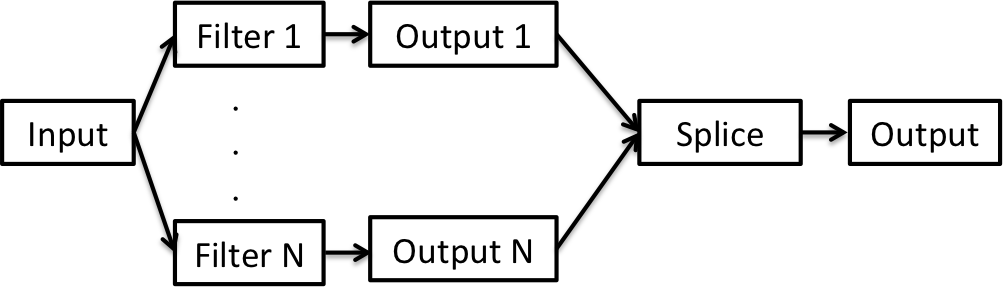
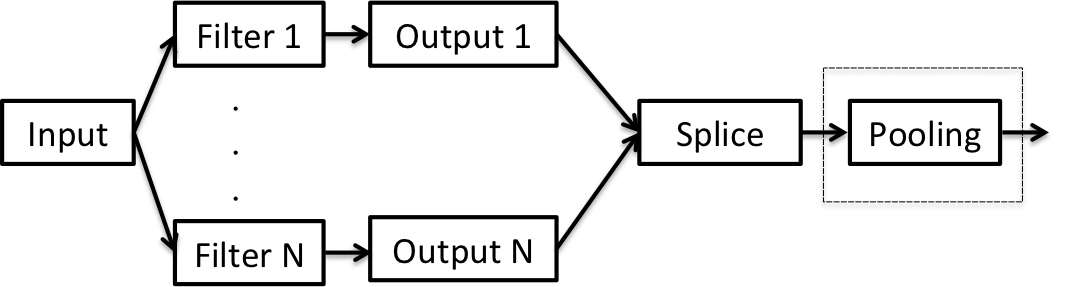
intermediate change

diff --git a/ISMIR2015template.tex b/ISMIR2015template.tex
@@ -112,7 +112,7 @@ Figure~\ref{fig:overview} gives an overview of all components and processing ste
 \begin{figure}
  \centerline{\framebox{
  \includegraphics[width=\columnwidth]{flowchart.png}}}
- \caption{The overview of our system}\footnote{change font size in this figure so that all boxes can have the same horizontal width AND that the font size matches the font size in other graphs}
+ \caption{The overview of our system}
  \label{fig:overview}
 \end{figure}
 
@@ -167,10 +167,12 @@ The ideas of splicing and convolution can be combined, as exemplified by Fig.~\r
  \caption{Splicing output of different filters}
  \label{fig:filtersplice}
 \end{figure}
-We call this kind of processing as ``splice filtering. 
+We call this kind of processing as ``spliced filters".
+
+Additionally, like CNNs we could optionally apply a maximum pooling operation on the output of spliced filters. 
  
 \subsection{Training}\label{sec:train}
-It is impractical to train DNNs directly with back propagation using gradient decent due to their deep structure. Therefore, the network is usually initialized by an unsupervised pre-training step. As our network consists of RBMs, Gibbs sampling can be used for training. The objective is to retain as much information as possible between input and output. 
+It is impractical to train DNNs directly with back propagation using gradient decent due to their deep structure and limited training samples. Therefore, the network is usually initialized by an unsupervised pre-training step. As our network consists of RBMs, Gibbs sampling can be used for training. The objective is to retain as much information as possible between input and output. 
 
 The computation between layers can be represented as:
 \begin{equation}\label{dbn}
@@ -180,7 +182,7 @@ which is identical to many traditional neural networks. Therefore, a standard ba
 
 \subsection{Architecture}\label{sec:arch}
 We investigate a deep network with $6$ layers in two different architectures. The common architecture features the same amount of neurons in every layer, in our case $1024$. The bottleneck architecture has a lower number of neurons in the middle layers, namely $256$ neurons in the middle layer, $512$ in its neighboring layers, and $1024$ neurons in the remaining layers\cite{grezl2007probabilistic}.
-A softmax output layer is stacked on top of both architectures as described by \eqnref{softmax}.\footnote{maybe move this to related work??}
+A softmax output layer is stacked on top of both architectures as described by \eqnref{softmax}.
 \begin{equation}\label{softmax}
 \softmax(Y_{l}) = \frac{\exp(Y_{l})}{\sum_{k=1}^N \exp(Y_{k})}
 \end{equation}
@@ -208,14 +210,20 @@ The pre-processing as described in Sect.~\ref{sec:pre-proc} ensures identical in
 
 \subsection{Methodology}
 
-The dataset is divided randomly into two parts: 80\% for the training set and 20\% for the test set. Within the training set, 10\% of the data is used as a validation set. \footnote{How is training and test data used between training the network and training the post classifiers??}
+The dataset is divided randomly into two parts: 80\% for the training set and 20\% for the test set. Within the training set, 10\% of the data is used as a validation set. After that, all the data in the training set will be used to train the post-classifier.
 
 The chosen outputs for classification are major and minor triads for every root note, resulting in a dictionary of $24+1$ chord labels.
-Ground truth time-aligned chord symbols are mapped to this major/minor dictionary:\footnote{are you sure that this equation helps anyone? I feel it's more confusing than helping. And what is C? The dictionary?}
+Ground truth time-aligned chord symbols are mapped to this major/minor dictionary:
 \begin{equation}
 Chord_{majmin} \subset \{N\} \cup \{S \times {maj,min}\}
 \end{equation}
-with $S$ representing the 12 pitch classes (root notes) and $N$ being the label for unknown chords. In the calculation of the detection accuracy, the following chord types are mapped to the corresponding triads in the dictionary: triad major/minor and seventh major/minor. Other chord types are treated as unknown chords. For instance, G:maj and G:maj7 are mapped to `G:maj'; G:dim and G:6 are all mapped to `N'.\footnote{Maybe it is worth noting here how the ground truth is distributed after this procedure? Most importantly the probability of the largest class?}
+with $S$ representing the 12 pitch classes (root notes) and $N$ being the label for unknown chords. In the calculation of the detection accuracy, the following chord types are mapped to the corresponding triads in the dictionary: triad major/minor and seventh major/minor. Other chord types are treated as unknown chords. For instance, G:maj and G:maj7 are mapped to `G:maj'; G:dim and G:6 are all mapped to `N'. The histogram of chords in our dataset after such mapping is shown in Fig.~\ref{fig:distrib}. 
+\begin{figure}
+ \centerline{\framebox{
+ \includegraphics[width=\columnwidth]{chordDistrib}}}
+ \caption{Chords histogram}
+ \label{fig:distrib}
+\end{figure}
 
 \subsection{Evaluation Metric}
 The used evaluation metric is the same as proposed in the audio chord detection task for MIREX 2013: the Weighted Chord Symbol Recall (WCSR) is used to estimate how well the predicted chords match the ground truth. WCSR, formulated in \eqnref{csr}, is defined as the total duration of segments with correct prediction: \footnote{verify that this is correct --- sounded to like it as the CSR divides byt the song length and the WCSR weights with the song length...}  
@@ -226,28 +234,22 @@ in which $n$ is the number of test samples (songs), $N$ is the total number of f
 
 \section{Experiments}
 
-\subsection{Learning strategy}
-There are three different training scenarios:
-\begin{itemize}
-	\item   unsupervised training (the trained network will be referred to as $DN_\mathrm{DBN}$)
-	\item   supervised training (the trained network will be referred to as $DN_\mathrm{DNN}$)
-    \item   the combination of unsupervised (pre-training) and supervised (fine-tuning) training  (the trained network will be referred to as $DN_\mathrm{DBN-DNN}$)
-\end{itemize} 
-In this experiment, no pre-processing is applied to the data; the input is simply the input representation (CQT followed by PCA) as described in Sect.~\ref{sec:input}. The chosen architecture for this experiment is the bottleneck architecture.
-As the $DN_\mathrm{DBN}$ scenario is unsupervised, we take the output of bottleneck layer as input to the classifier, in this case an SVM. For the $DN_\mathrm{DNN}$ (supervised but no pre-training), back propagation is used to train the neural network and an HMM with Viterbi decoding is used for classification. Finally, in the case of the $DN_\mathrm{DBN-DNN}$ (pre-training and supervised learning), three different classifiers are compared: the maximum of the softmax output (Argmax), an SVM, and an HMM. 
+\subsection{Post-classifiers}
+In this work, we use pre-train to initialize the networks followed by fine-tuning using back propagation. 
+In this experiment, no pre-processing is applied to the data; the input is simply the input representation (CQT followed by PCA) as described in Sect.~\ref{sec:input}. The chosen architecture for this experiment is the bottleneck architecture. 
+Three different classifiers are compared: the maximum of the softmax output (Argmax), an SVM, and an HMM. 
 \begin{table}
 \centering
 \begin{tabular*}{\columnwidth}{@{\extracolsep{\fill}}llr}
 %\begin{tabular}{@{}llr@{}}
 \toprule
 \textbf{Training Scenario} & \textbf{Classifier} & \textbf{WCSR}  \\ \hline
-$DN_\mathrm{DBN}$             & SVM            & 0.141 \\ 
-$DN_\mathrm{DNN}$              & HMM            & 0.159      \\ 
+
 $DN_\mathrm{DBN-DNN}$         & Argmax()            & 0.648 \\ 
 $DN_\mathrm{DBN-DNN}$          & SVM            & 0.645 \\ 
 $DN_\mathrm{DBN-DNN}$         &  HMM           & \textbf{0.755} \\ \bottomrule
 \end{tabular*}
-\caption{Chord detection performance for different learning strategies}
+\caption{Chord detection performance using different post-classifiers}
 \label{tab:dbn-dnn}
 \end{table}
 
@@ -255,15 +257,29 @@ Table \ref{tab:dbn-dnn} lists the results of the experiment. It comes as no surp
 
 \subsection{Pre-processing}
 As stated in Sect.~\ref{sec:pre-proc}, we investigate the application of different filters in the pre-processing stage. 
-In a first experiment, a single pole filter (see \eqnref{IIR}) is applied in an anti-causal way in order to assure zero phase. It has one parameter $\alpha$ for which the values 0.25, 0.5, and 0.75 are evaluated. In a second experiment, these filter outputs are spliced with the outputs of the extension filters as introduced in Sect.~\ref{sec:pre-proc}. These experiments are carried out with the  $DN_\mathrm{DBN-DNN}$ training scenario, a bottleneck architecture, and an HMM classifier. Table~\ref{tab:filter}\footnote{replace figure with table} lists the results of with these different pre-processing variants.
-\begin{figure}
- \centerline{\framebox{
- \includegraphics[width=\columnwidth]{filters.png}}}
- \caption{Comparison between different filters}
- \label{tab:filter}
-\end{figure}
+In a first experiment, a single pole filter (see \eqnref{IIR}) is applied in an anti-causal way in order to assure zero phase. It has one parameter $\alpha$ for which the values 0.25, 0.5, and 0.75 are evaluated. In a second experiment, these filter outputs are spliced with the outputs of the extension filters as introduced in Sect.~\ref{sec:pre-proc}. These experiments are carried out with the  $DN_\mathrm{DBN-DNN}$ training scenario, a bottleneck architecture, and an HMM classifier. Table~\ref{table:filter} lists the results of with these different pre-processing variants.
+%\begin{figure}
+% \centerline{\framebox{
+% \includegraphics[width=\columnwidth]{filters.png}}}
+% \caption{Comparison between different filters}
+% \label{tab:filter}
+%\end{figure}
+\begin{table}[h]
+\begin{tabular*}{\columnwidth}{@{\extracolsep{\fill}}llr}
+\toprule
+$\alpha$    & Pre-processing  & WCSR  \\  \midrule
+0.25 & N/A             & 0.758 \\
+0.25 & Spliced Filters & 0.912 \\
+0.5  & N/A             & 0.787 \\
+0.5  & Spliced Filters & 0.857 \\
+0.75 & N/A             & 0.798 \\
+0.75 & Spliced Filters & 0.919 \\ \bottomrule
+\end{tabular*}
+\caption{Chord detection performance using different filter parameters}
+\label{table:filter}
 
-It can observed that the network trained with filtered inputs slightly outperforms the network without pre-processing; splicing the filtered input with the extension filter outputs increases the results significantly ($p=???$)\footnote{compute significance}.
+\end{table}
+It can observed that the network trained with filtered inputs slightly outperforms the network without pre-processing; splicing the filtered input with the extension filter outputs increases the results significantly.
 
 \subsection{Architecture}
 \subsubsection{Common vs.\ Bottleneck}
